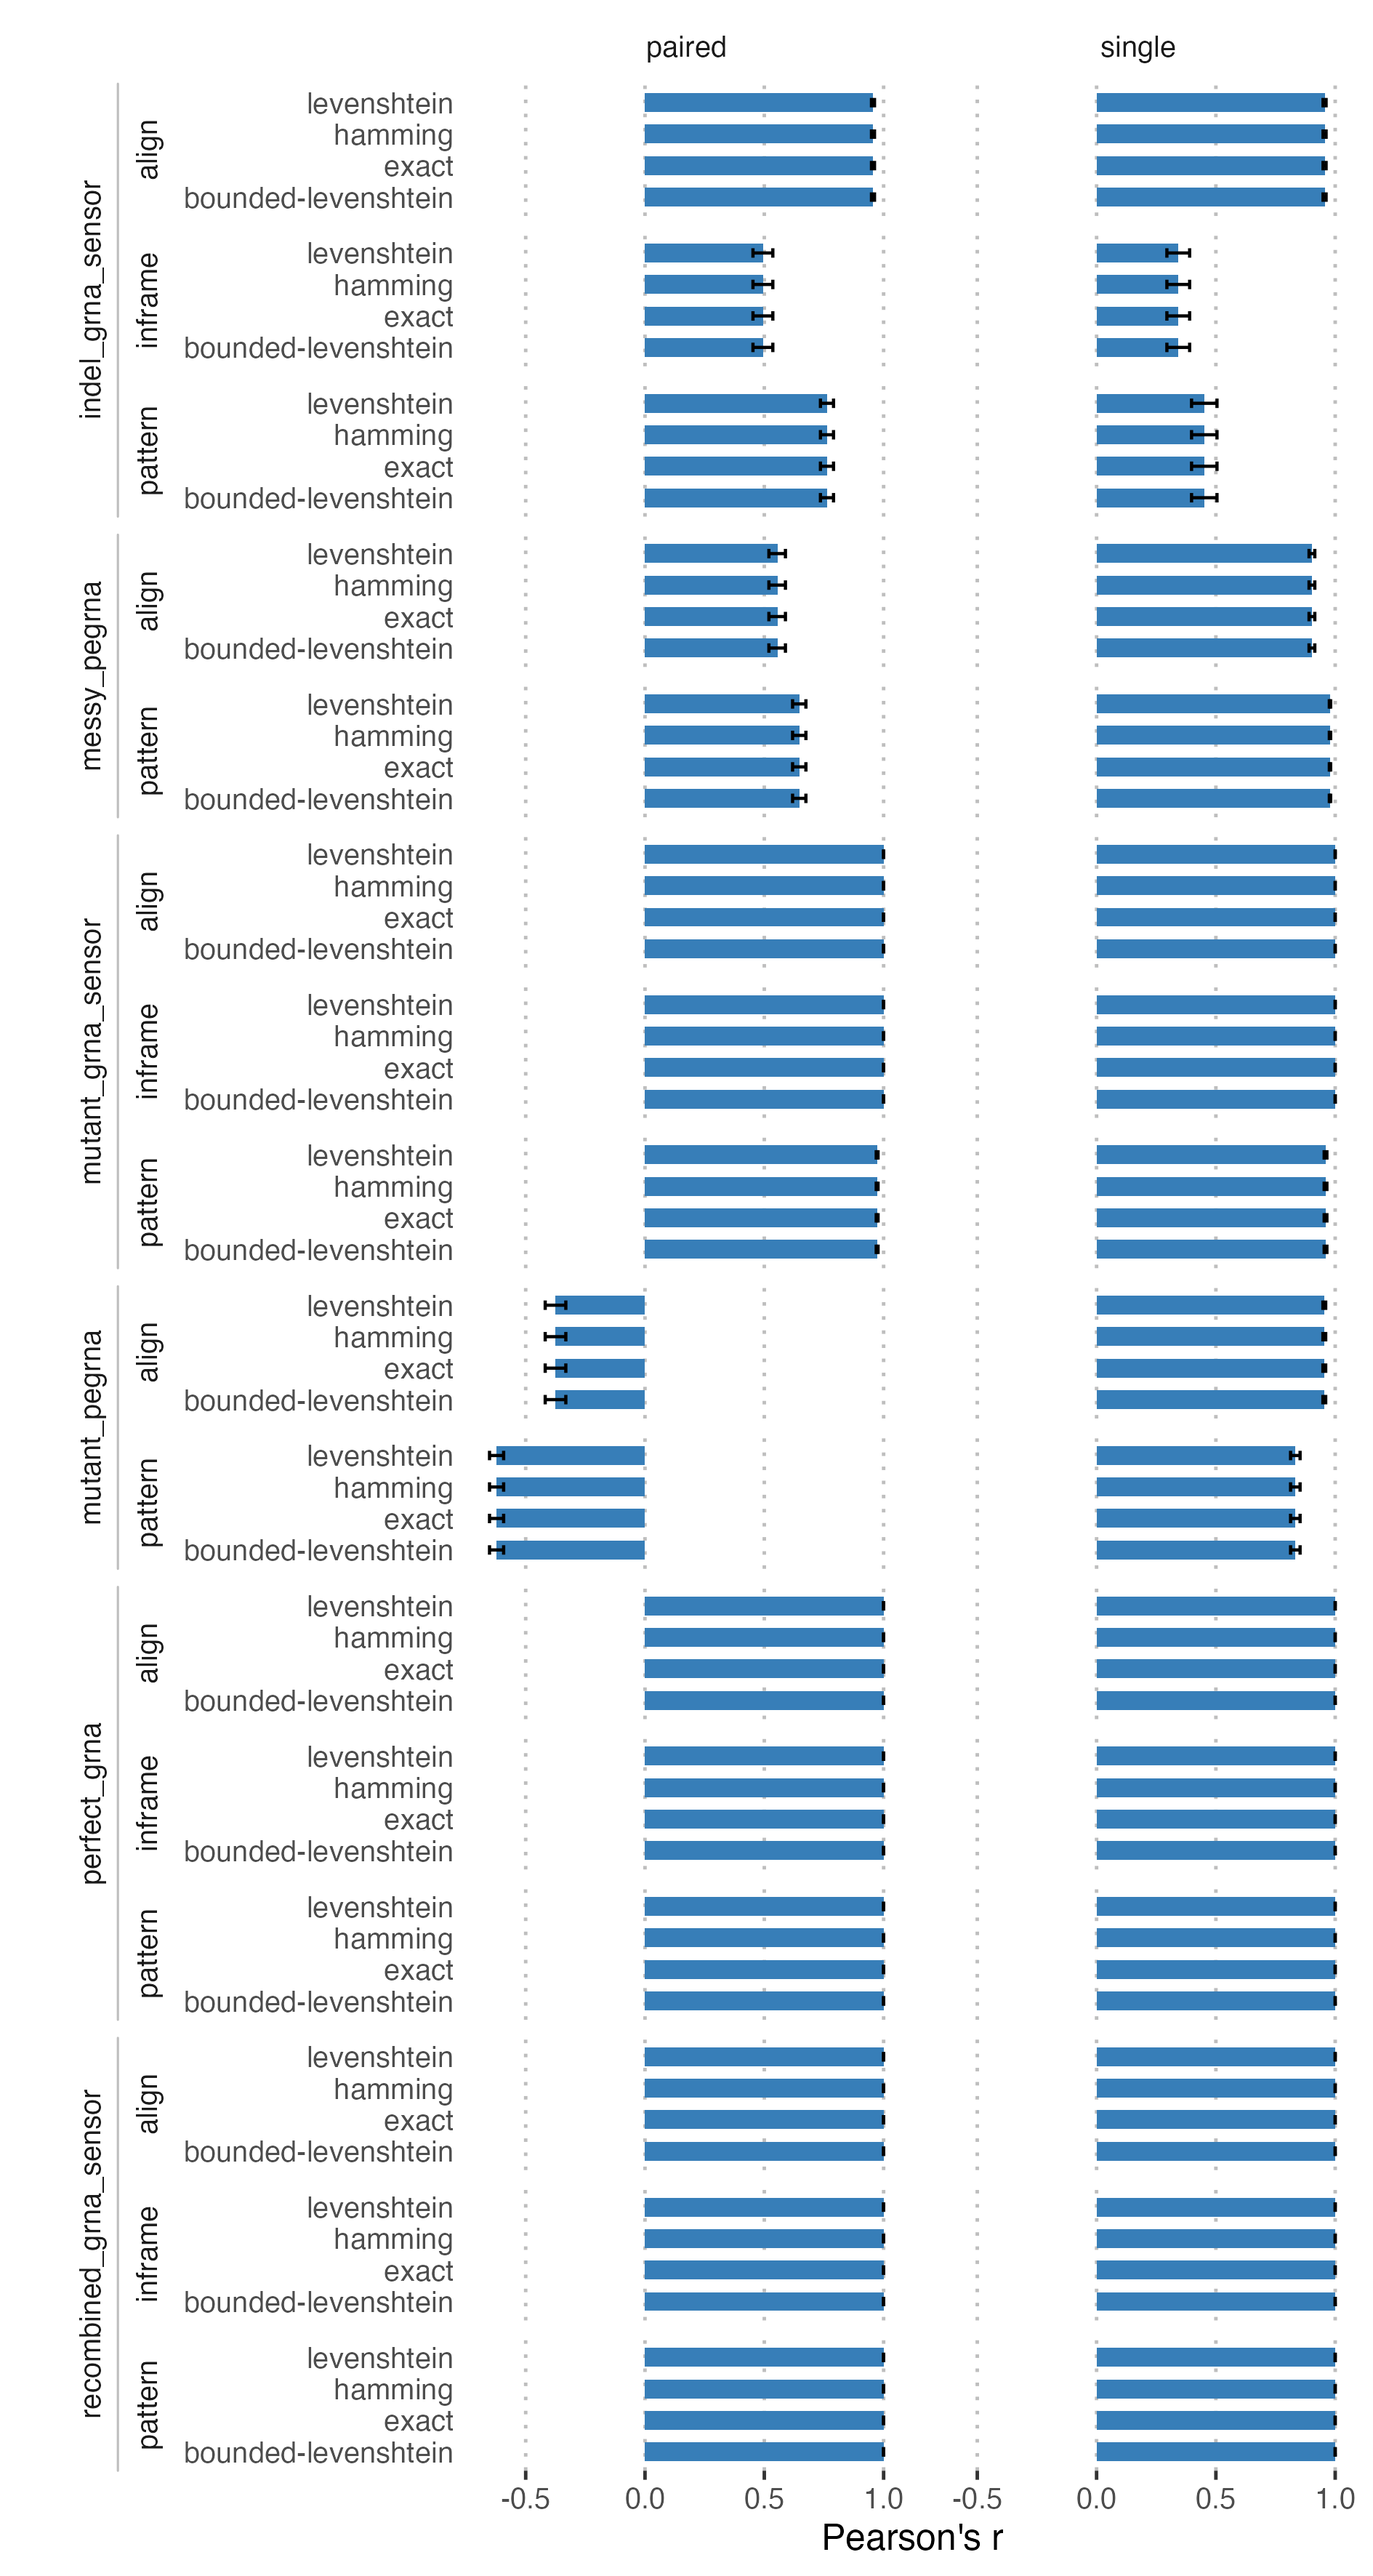
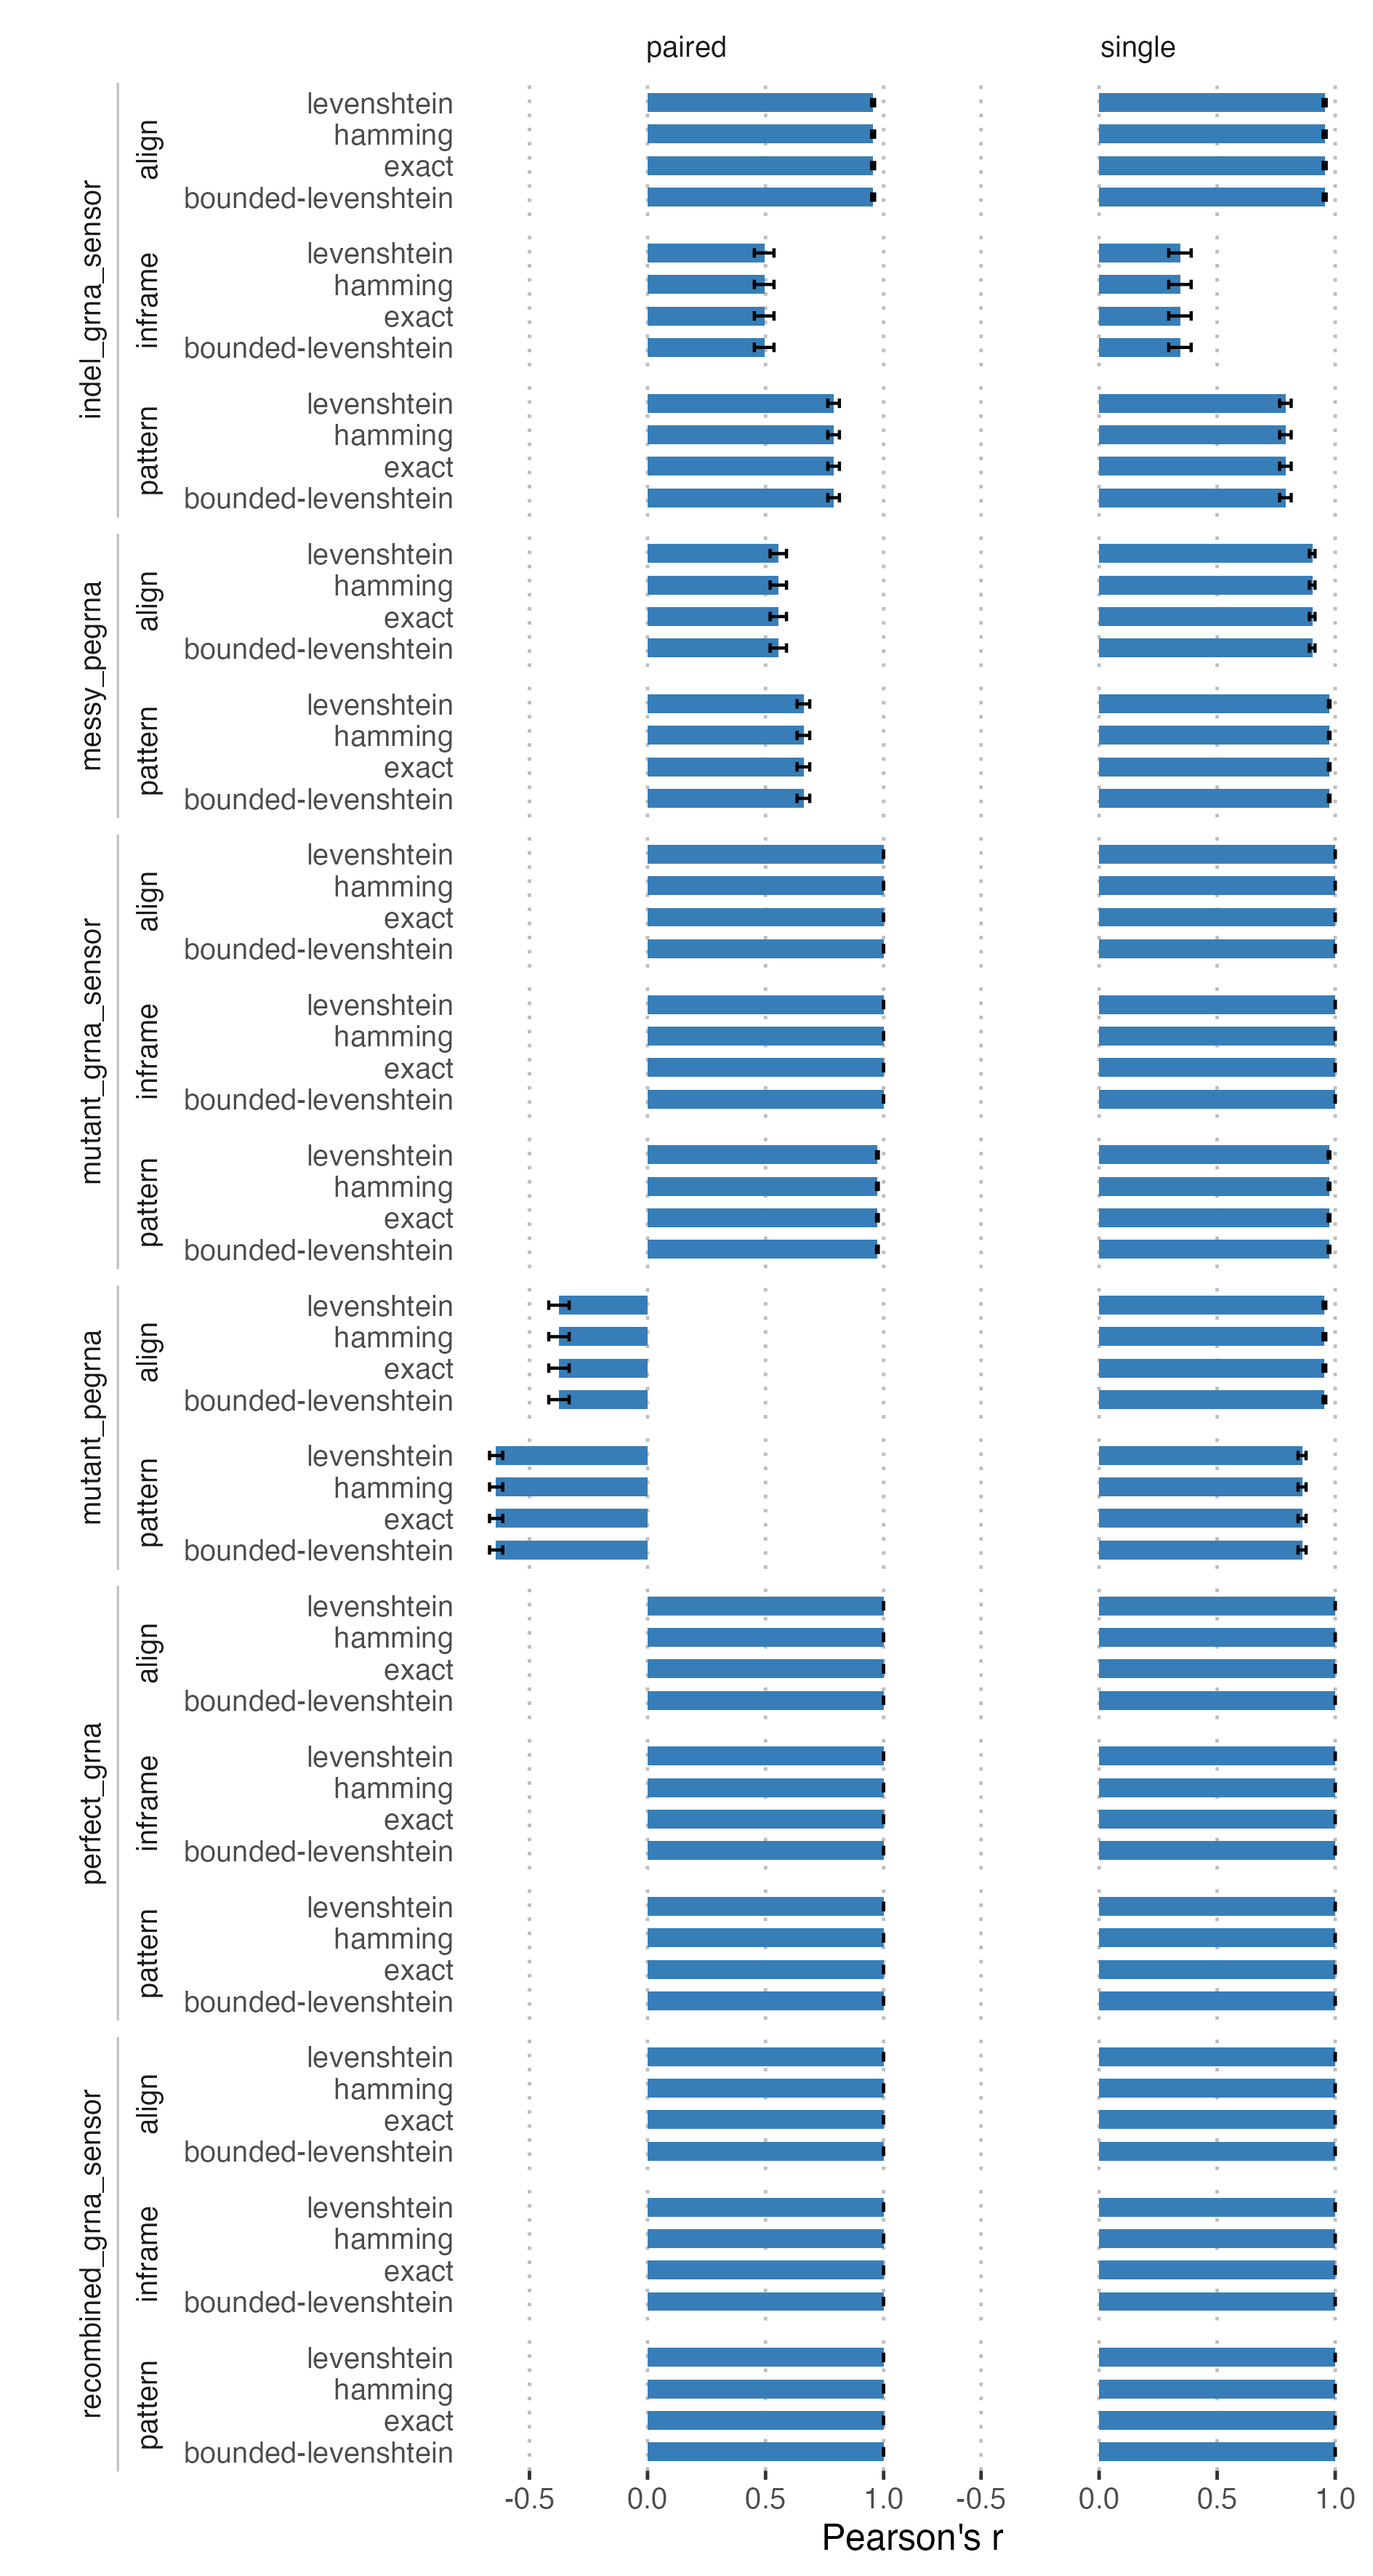
Fixed bug in flank pattern matching where open regions wouldn't be closed at the end of sequences, which broke paired end matching

diff --git a/src/counting.rs b/src/counting.rs
@@ -592,6 +592,15 @@ fn match_flank_patterns(
         }
     }
 
+    // If an Internal region is still open, close it as partial 3'
+    if open && matches!(&flanks[reg], FlankingSequences::Internal(..)) {
+        out[reg] = Some((
+            seq[reg_start..(pos - 1)].to_vec(),
+            qual[reg_start..(pos - 1)].to_vec(),
+            RegionCompleteness::Partial3Prime
+        ));
+    }
+
     Ok(out)
 }
 

diff --git a/README.md b/README.md
@@ -223,8 +223,8 @@ We test this with an integration test on simulated data (see the `scripts/` and 
 
 For unmutated sequences all methods give perfect counts as expected and alignment is generally robust across simulated mutations.
 The inframe matching approach is generally ok as long as region lengths don't vary and there aren't too many indels.
-On the other hand, pattern matching approaches are very sensitive to mutations in the flanking sequences, with many unassigned reads in tests that are likely assignable.
-We are working on making the pattern matching approach more robust as it gives a nice intermediate between inframe and full alignment in terms of performance.
+Flanking pattern matching and full alignment are both broadly robust under normal mutation profiles but pattern matching is a bit less tolerant to indels around target regions and cannot cope with as wide a range of region structures as full alignment.
+
 The distance metrics behave as expected, with exact matching missing and mutant sequences and hamming distance being much less robust than the Levenshtein variants.
 
 Additionally, the following bugs are currently known:
